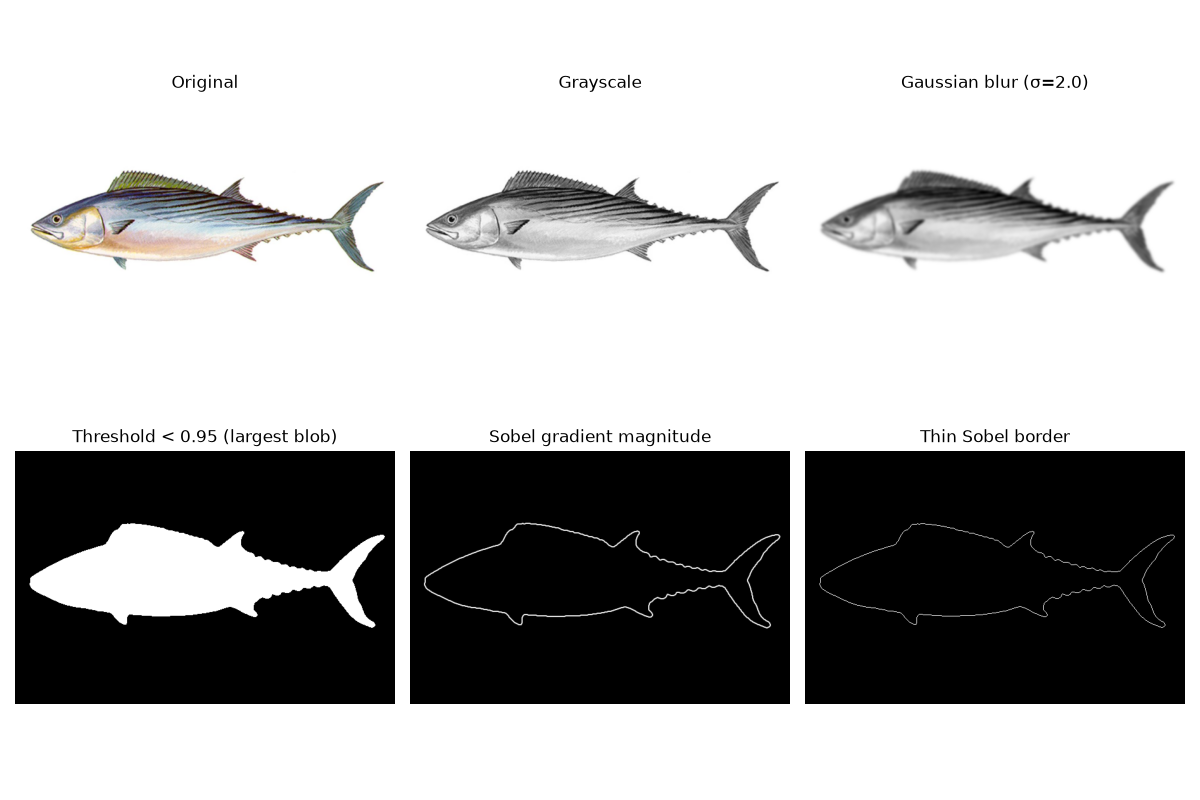
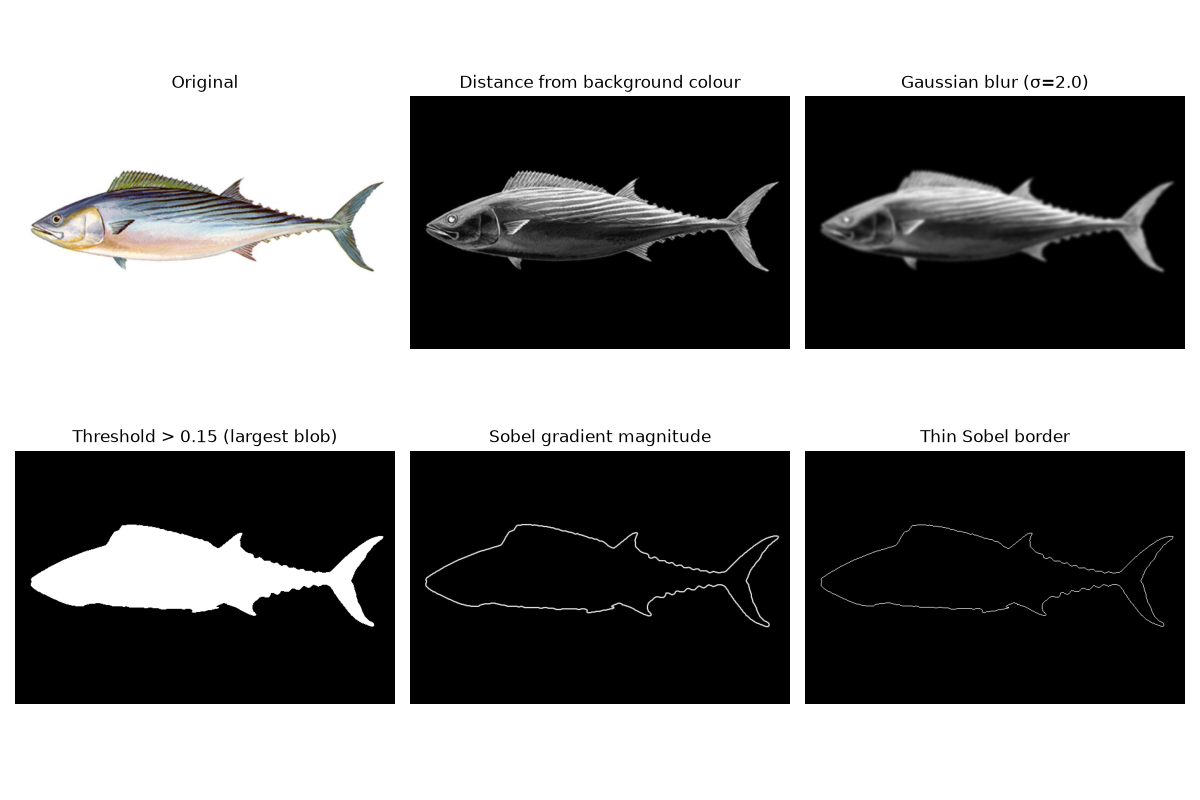
Threshold on distance from the background colour

diff --git a/report.tex b/report.tex
@@ -27,7 +27,7 @@
 \maketitle
 
 \begin{abstract}
-We extract an animal's outline from a single image so that it can be redrawn with Fourier epicycles. Our first version followed the suggested pipeline with one threshold for every image, and it failed on four of our six images. Choosing a threshold per image fixed two of those four. The giraffe and tiger stayed poor because no threshold could keep their pale parts without also picking up the ground.
+We extract an animal's outline from a single image so that it can be redrawn with Fourier epicycles. Our first version followed the suggested pipeline with one threshold for every image, and it failed on four of our six images. Choosing a threshold per image fixed two of those four. Measuring each pixel's distance from the background colour instead of its brightness then stopped the duck's paper flooding the mask. The giraffe and tiger are still poor because their ground stays attached to the feet.
 \end{abstract}
 
 \section{Introduction}
@@ -36,16 +36,21 @@ The brief gives a pipeline of grayscale conversion, blurring, thresholding and b
 \section{Method}
 
 \subsection{From image to border}
-Each image is converted to grayscale with equal channel weights of 0.333 and then blurred with a Gaussian kernel~\cite{foundationsCVbook},
+We started with grayscale, but Section~\ref{sec:distance} explains why we moved away from it. Each pixel now gets its colour distance from the background $\mathbf{b}$, taken as the median colour along the outer edge of the image:
+\begin{equation}
+D(x,y) = \frac{\lVert I(x,y)-\mathbf{b}\rVert_2}{\sqrt{3}},
+\label{eq:distance}
+\end{equation}
+where dividing by $\sqrt{3}$ keeps the result between 0 and 1. This is then blurred with a Gaussian kernel~\cite{foundationsCVbook},
 \begin{equation}
 G(x,y) \propto \exp\!\left(-\frac{x^2+y^2}{2\sigma^2}\right),
 \label{eq:gaussian}
 \end{equation}
-normalised to sum to one. The kernel radius is $\lceil 3\sigma \rceil$, so $\sigma=2$ gives a $13\times13$ kernel. We reflect the image at its borders so that the white background does not darken or brighten near the edges.
+normalised to sum to one. The kernel radius is $\lceil 3\sigma \rceil$, so $\sigma=2$ gives a $13\times13$ kernel. We reflect the image at its borders so that the blur does not pull in values from outside it.
 
-All of our animals are darker than their backgrounds, so the mask keeps pixels below a threshold $T$:
+The mask keeps pixels that are far enough from the background:
 \begin{equation}
-M(x,y) = I_\sigma(x,y) < T.
+M(x,y) = D_\sigma(x,y) > T.
 \label{eq:threshold}
 \end{equation}
 Text and watermarks also pass this test, so we keep only the largest 8-connected region. Interior holes are then filled by flooding the background inward from outside the image; anything the flood cannot reach becomes foreground.
@@ -60,7 +65,7 @@ Sobel responds on both sides of an edge, which gives a line about two pixels thi
 
 \begin{figure}[t]
 \centerline{\includegraphics[width=\columnwidth]{pipeline_fish.png}}
-\caption{Each pipeline stage on the fish at $T=0.95$, our cleanest result.}
+\caption{Each pipeline stage on the fish at $T=0.15$, our cleanest result.}
 \label{fig:pipeline}
 \end{figure}
 
@@ -75,29 +80,29 @@ z'[n] = \frac{1}{N}\sum_{u\in\mathcal{S}_K} Z[u]\,e^{2\pi i u n/N}.
 \end{equation}
 
 \section{Choosing the threshold}
-Our first configuration used $T=0.5$ and $\sigma=2$ for every image. That value only caught the darkest parts of the lighter animals: the mask covered 1\% of the giraffe image, 2\% of the squid, 5\% of the fish and 7\% of the tiger. The giraffe's mask was a thin strip along its neck and back.
+Our first configuration used grayscale, kept pixels darker than $T=0.5$, and set $\sigma=2$ for every image. That value only caught the darkest parts of the lighter animals: the mask covered 1\% of the giraffe image, 2\% of the squid, 5\% of the fish and 7\% of the tiger. The giraffe's mask was a thin strip along its neck and back.
 
-The obvious first change was the threshold, so we swept $T$ from 0.5 to 0.95 with everything else fixed (Fig.~\ref{fig:sweep}). We chose each value by inspecting the masks, and Table~\ref{tab:thresholds} gives the results.
+The obvious first change was the threshold, so we swept $T$ from 0.5 to 0.95 with everything else fixed (Fig.~\ref{fig:sweep}). We chose each value by inspecting the masks, and Table~\ref{tab:thresholds} lists them.
 
 \begin{figure}[t]
 \centerline{\includegraphics[width=\columnwidth]{threshold_sweep.png}}
-\caption{Masks at increasing $T$ with $\sigma=2$, with the share of the image each one covers. The all-white duck panel at $T=0.9$ is the paper flooding the mask.}
+\caption{Grayscale masks at increasing $T$ with $\sigma=2$, with the share of the image each one covers. The all-white duck panel at $T=0.9$ is the paper flooding the mask.}
 \label{fig:sweep}
 \end{figure}
 
 \begin{table}[t]
-\caption{Chosen threshold for each image}
+\caption{Chosen thresholds, and the outline from distance}
 \begin{center}
-\begin{tabular}{|l|c|l|}
+\begin{tabular}{|l|c|c|l|}
 \hline
-\textbf{Image} & $\boldsymbol{T}$ & \textbf{Result} \\
+\textbf{Image} & \textbf{Gray} & \textbf{Dist.} & \textbf{Outline} \\
 \hline
-Duck & 0.7 & Legs kept; mound still attached \\
-Buffalo & 0.8 & Horn and tail recovered \\
-Fish & 0.95 & Whole fish \\
-Squid & 0.8 & Body and tentacles \\
-Giraffe & 0.7 & Rough outline; legs merge with ground \\
-Tiger & 0.7 & Face missing; ground attached \\
+Duck & 0.7 & 0.2 & Legs kept; mound attached \\
+Buffalo & 0.8 & 0.2 & Horn and tail kept \\
+Fish & 0.95 & 0.15 & Whole fish \\
+Squid & 0.8 & 0.15 & Body and tentacles \\
+Giraffe & 0.7 & 0.3 & Legs merge with ground \\
+Tiger & 0.7 & 0.3 & Ground attached \\
 \hline
 \end{tabular}
 \label{tab:thresholds}
@@ -106,12 +111,22 @@ Tiger & 0.7 & Face missing; ground attached \\
 
 Mask area turned out to be a quick way to read the sweep, because sudden jumps show where a threshold stops working. The fish grows steadily from 5\% to 20\% as its pale belly joins the body. The duck goes from 35\% at $T=0.8$ to 100\% at $T=0.9$, because its cream paper is darker than the white backgrounds of the other images and falls below the threshold. A value that suits the fish therefore destroys the duck, which is why one global value could not work.
 
+\section{Measuring distance from the background}
+\label{sec:distance}
+The paper explains the duck: its median edge colour is (0.93, 0.87, 0.72), a brightness of about 0.84, so the flood at $T=0.9$ is expected. Brightness assumes the background is white, and measuring from the background colour itself removes that assumption.
+
+We swept $D_\sigma$ the same way. The duck no longer floods for any $T$ from 0.05 to 0.3, where its mask covers 31\% down to 20\%; it only starts to fail at $T=0.03$, at 66\%. $T=0.15$ now gives a usable outline on the duck, buffalo, fish and squid. We still use 0.2 for the duck and buffalo, because their legs and tail separate better there.
+
+The gain is smaller on white backgrounds, where a neutral grey pixel's distance is just one minus its brightness. A pale coloured pixel scores a little higher: the tiger's ruff moves from a margin of 0.19 to 0.24, and the giraffe's pale leg from 0.09 to 0.11.
+
 \section{Discussion}
-Tuning $T$ gave usable outlines for four images, but the giraffe and tiger show its limit. The tiger's mask jumps from 24\% to 37\% between $T=0.7$ and $T=0.8$. At 0.7 the face is missing. At 0.8 the face appears, but the ground fuses to the feet, the space between the legs becomes an enclosed hole, and hole filling turns the legs into a solid block. The giraffe's ground shadow does the same thing to its legs.
+Distance gave usable outlines for four images, but the giraffe and tiger still fail. On grayscale, the tiger's mask jumps from 24\% to 37\% between $T=0.7$ and $T=0.8$. The face appears, but the ground fuses to the feet, the space between the legs becomes an enclosed hole, and hole filling turns the legs into a solid block. Distance behaves the same way, so we keep $T=0.3$ for these two as a compromise.
 
-These look like one failure but we think there are two causes. The tiger's face and the background are both bright, and grayscale has already discarded the colour that might tell them apart, so this is a problem with what the pixels measure. The ground is different: it is genuinely darker than the background and touches the animal, so it is a problem of shape and connectivity that a better pixel measure may not solve. We plan to address them separately, starting with colour.
+We first assumed the face was lost because it is about as bright as the background. Sampling patches of the tiger showed this was wrong. The ruff has a brightness of 0.81 against 1.00, which a threshold near 0.9 separates easily. The real obstacle is the green ground at 0.52, which is as dark as the orange fur at 0.54, so a threshold that keeps the fur also keeps the ground. The giraffe is similar: its shadow is 0.56, while its pale legs are 0.91 and are the first thing lost.
 
-Our sweep also has limits. We picked $T$ by eye, so the values are not reproducible by any rule, and we held $\sigma$ fixed, so we do not yet know how much blur affects these results.
+Colour could separate the tiger's ground, since red is above green on the fur and below green on the ground. It will not help the giraffe, whose shadow and legs have nearly the same hue. We will therefore try a shape-based fix first, because the ground on both images is thin compared with the animal.
+
+Our sweeps also have limits. We picked $T$ by eye, so the values do not come from any rule, and we held $\sigma$ fixed, so we do not yet know how much blur affects these results. The background estimate also assumes that the outer edge of the image is mostly background.
 
 
 \printbibliography

diff --git a/main.py b/main.py
@@ -4,7 +4,7 @@ import numpy as np
 
 from PIL import Image
 from os import path as opath
-from mypylibs import trajectory, grayscale, plots, blur, threshold, edges
+from mypylibs import trajectory, background, plots, blur, threshold, edges
 
 ROOT_IN = 'in'
 ROOT_OUT = 'out'
@@ -16,16 +16,16 @@ def main(case: int):
     with open(opath.join(ROOT_IN, f'{case:02}.yaml')) as f:
         params = yaml.safe_load(f)
 
-    gray = grayscale.to_grayscale(img)
-    blurred = blur.gaussian_blur(gray, params['sigma'])
+    distance = background.distance(img)
+    blurred = blur.gaussian_blur(distance, params['sigma'])
     mask = threshold.calculate(blurred, params['threshold'],
-                               fill=params.get('fill_holes', True))
+                               fill=params.get('fill_holes', True), above=True)
     magnitude, border = edges.calculate(mask, params.get('edge_threshold', 0.1))
 
     plots.save_mosaic([('Original', img),
-                       ('Grayscale', gray),
+                       ('Distance from background colour', distance),
                        (f'Gaussian blur (σ={params["sigma"]})', blurred),
-                       (f'Threshold < {params["threshold"]} (largest blob)', mask),
+                       (f'Threshold > {params["threshold"]} (largest blob)', mask),
                        ('Sobel gradient magnitude', magnitude),
                        ('Thin Sobel border', border)],
                       opath.join(ROOT_OUT, f'{case:02}_transforms.{EXT}'))

diff --git a/mypylibs/threshold.py b/mypylibs/threshold.py
@@ -50,7 +50,9 @@ def fill_holes(mask):
     return ~exterior[1:-1, 1:-1]
 
 
-def calculate(blurred, threshold=0.5, fill=True):
-    """Select dark pixels, remove smaller blobs, and optionally fill holes."""
-    mask = keep_largest(np.asarray(blurred) < threshold)
+def calculate(blurred, threshold=0.5, fill=True, above=False):
+    """Select pixels below (or above) the threshold, remove smaller blobs,
+    and optionally fill holes."""
+    blurred = np.asarray(blurred)
+    mask = keep_largest(blurred > threshold if above else blurred < threshold)
     return fill_holes(mask) if fill else mask

diff --git a/mypylibs/background.py b/mypylibs/background.py
@@ -1,0 +1,12 @@
+import numpy as np
+
+
+def estimate(img):
+    """Median colour of the outer edge of the image."""
+    edge = np.concatenate((img[0], img[-1], img[:, 0], img[:, -1]))
+    return np.median(edge, axis=0)
+
+
+def distance(img):
+    """Colour distance from the background, scaled to the range 0-1."""
+    return np.sqrt(np.sum((img - estimate(img))**2, axis=-1) / 3)
